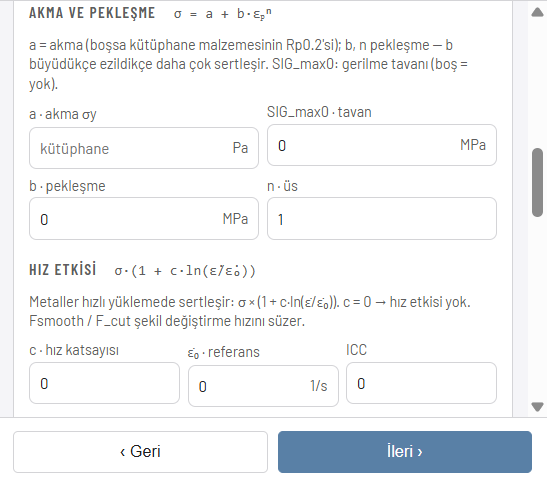
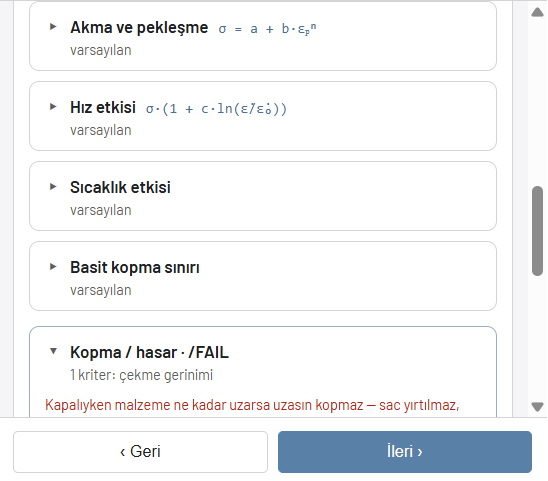
style(ui): crash malzeme davranışı/kopma bölümleri aç-kapa (kapalıyken değişen alan özeti); açıklamalar kırmızı, başlıklar kalın, Radioss/LS-DYNA karşılıkları mavi (tema token'ları --hint-red, --ref-blue, koyu tema dahil); Belgeler görselleri güncellendi

diff --git a/frontend/src/components/CrashMaterialCard.tsx b/frontend/src/components/CrashMaterialCard.tsx
@@ -1,4 +1,4 @@
-import { Fragment } from "react";
+import { Fragment, useState, type ReactNode } from "react";
 import type { CrashModelPayload } from "../api/crash";
 import ButtonGroup from "./ButtonGroup";
 import { KwRef } from "./Kw";
@@ -219,6 +219,39 @@ const LAW_HINT: Record<CrashLaw, string> = {
     "Tablolu eğri: ölçülmüş gerilme–plastik gerinim eğrilerini (farklı hızlarda) doğrudan kullanır. Elinde test eğrisi varsa.",
 };
 
+/** Aç / kapa bölüm (kullanıcı 2026-10-08: yer kaplamasın). Kapalıyken
+ * değiştirilen alanlar başlıkta özetlenir. İçerik DOM'da kalır (gizli). */
+function Fold({
+  title,
+  formula,
+  summary,
+  defaultOpen = false,
+  children,
+}: {
+  title: string;
+  formula?: string;
+  summary: string;
+  defaultOpen?: boolean;
+  children: ReactNode;
+}) {
+  const [open, setOpen] = useState(defaultOpen);
+  return (
+    <div className={open ? "crash-fold open" : "crash-fold"}>
+      <button type="button" className="crash-fold-head" aria-expanded={open} onClick={() => setOpen((v) => !v)}>
+        <span className="crash-fold-chev" aria-hidden="true">
+          {open ? "▾" : "▸"}
+        </span>
+        <strong>{title}</strong>
+        {formula && <span className="crash-formula">{formula}</span>}
+        <span className="crash-fold-summary">{summary}</span>
+      </button>
+      <div className="crash-fold-body" hidden={!open}>
+        {children}
+      </div>
+    </div>
+  );
+}
+
 export default function CrashMaterialCard({
   value,
   onChange,
@@ -231,6 +264,12 @@ export default function CrashMaterialCard({
   testId?: string;
 }) {
   const set = (patch: Partial<MatCardState>) => onChange({ ...value, ...patch });
+  /** Varsayılandan farklı alanlar: "c 0.014 · ε̇₀ 1"; hiçbiri yoksa "varsayılan". */
+  const changed = (pairs: [ScalarKey, string][]) => {
+    const d = defaultMatCard();
+    const out = pairs.filter(([k]) => value[k].trim() !== "" && value[k] !== d[k]).map(([k, l]) => `${l} ${value[k]}`);
+    return out.length ? out.join(" · ") : "varsayılan";
+  };
   const field = (key: ScalarKey, label: string) => (
     <label className="mesh-field">
       <span>{label}</span>
@@ -283,7 +322,12 @@ export default function CrashMaterialCard({
 
       {law === "plastic" && (
         <div className="crash-law-sections">
-          <p className="crash-expert-title">Akma ve pekleşme <span className="crash-formula">σ = a + b·εₚⁿ</span></p>
+          <Fold
+            title="Akma ve pekleşme"
+            formula="σ = a + b·εₚⁿ"
+            summary={changed([["sigmaY", "a"], ["hardenB", "b"], ["hardenN", "n"], ["sigMax0", "SIG_max0"]])}
+            defaultOpen
+          >
           <p className="crash-behavior-hint">
             a = akma (boşsa kütüphane malzemesinin Rp0.2'si); b, n pekleşme — b büyüdükçe ezildikçe daha çok
             sertleşir. SIG_max0: gerilme tavanı (boş = yok).
@@ -294,8 +338,13 @@ export default function CrashMaterialCard({
             {xf("hardenB", "LAW2 b (MPa)", "b · pekleşme", "MPa")}
             {xf("hardenN", "LAW2 n", "n · üs")}
           </div>
+          </Fold>
 
-          <p className="crash-expert-title">Hız etkisi <span className="crash-formula">σ·(1 + c·ln(ε̇/ε̇₀))</span></p>
+          <Fold
+            title="Hız etkisi"
+            formula="σ·(1 + c·ln(ε̇/ε̇₀))"
+            summary={changed([["jcC", "c"], ["jcEps0", "ε̇₀"], ["jcIcc", "ICC"], ["jcFsmooth", "Fsmooth"], ["jcFcut", "F_cut"], ["jcChard", "Chard"]])}
+          >
           <p className="crash-behavior-hint">
             Metaller hızlı yüklemede sertleşir: σ × (1 + c·ln(ε̇/ε̇₀)). c = 0 → hız etkisi yok. Fsmooth / F_cut
             şekil değiştirme hızını süzer.
@@ -308,8 +357,9 @@ export default function CrashMaterialCard({
             {xf("jcFcut", "F_cut (Hz)", "F_cut", "Hz")}
             {xf("jcChard", "Chard", "Chard")}
           </div>
+          </Fold>
 
-          <p className="crash-expert-title">Sıcaklık etkisi</p>
+          <Fold title="Sıcaklık etkisi" summary={changed([["jcM", "m"], ["jcTmelt", "T_melt"], ["jcTr", "T_r"], ["jcRhoCp", "ρCp"]])}>
           <p className="crash-behavior-hint">
             Plastik iş ısıya döner, malzeme yumuşar: m üssü, erime ve referans sıcaklığı, ρ·Cp. Boş = sıcaklık
             etkisi yok.
@@ -320,14 +370,16 @@ export default function CrashMaterialCard({
             {xf("jcTr", "T_r (K)", "T_r · referans", "K")}
             {xf("jcRhoCp", "ρCp (J/m³K)", "ρ·Cp", "J/m³K")}
           </div>
+          </Fold>
 
-          <p className="crash-expert-title">Basit kopma sınırı</p>
+          <Fold title="Basit kopma sınırı" summary={changed([["epsPMax", "EPS_p_max"]])}>
           <p className="crash-behavior-hint">
             Bu plastik gerinime ulaşan eleman silinir (boş = kapalı). Daha ayrıntılı kopma için aşağıdaki /FAIL kartları.
           </p>
           <div className="crash-expert-grid cols-2">
             {xf("epsPMax", "EPS_p_max", "EPS_p_max · kopma gerinimi")}
           </div>
+          </Fold>
         </div>
       )}
 
@@ -412,9 +464,11 @@ export default function CrashMaterialCard({
       )}
 
       <div className="crash-law-sections">
-        <p className="crash-expert-title">
-          Kopma / hasar · /FAIL{failCount > 0 ? ` · ${failCount} kriter` : " · kapalı"}
-        </p>
+        <Fold
+          title="Kopma / hasar · /FAIL"
+          summary={failCount > 0 ? `${failCount} kriter: ${[j && "Johnson–Cook", t && "çekme gerinimi"].filter(Boolean).join(" + ")}` : "kapalı"}
+          defaultOpen={failCount > 0}
+        >
         <p className="crash-behavior-hint" data-testid="crash-fail-intro">
           Kapalıyken malzeme ne kadar uzarsa uzasın kopmaz — sac yırtılmaz, mermi delmez; yalnız ezilir ve
           bükülür. Açıkken kriteri sağlayan eleman silinir; silinen eleman sayısı sonuçlarda yazar. Tipik:
@@ -480,6 +534,7 @@ export default function CrashMaterialCard({
           )}
         </div>
         <p className="material-assign-hint">S_Flag: 0, 1, 11, 21 · Ifail: 0, 1, 2 (Radioss bayrakları; boş = varsayılan).</p>
+        </Fold>
       </div>
     </div>
   );

diff --git a/frontend/src/index.css b/frontend/src/index.css
@@ -8331,3 +8331,85 @@ p {
   border: none;
   border-radius: 6px;
 }
+
+/* Aç/kapa bölümler (crash malzeme davranışı / kopma) */
+.crash-fold {
+  border: 1px solid var(--border);
+  border-radius: 8px;
+  background: var(--surface);
+}
+
+.crash-fold.open {
+  border-color: color-mix(in srgb, var(--accent) 45%, var(--border));
+}
+
+.crash-fold-head {
+  display: flex;
+  flex-wrap: wrap;
+  align-items: baseline;
+  gap: 2px 8px;
+  width: 100%;
+  min-height: 40px;
+  padding: 9px 12px;
+  font: inherit;
+  text-align: left;
+  color: var(--ink);
+  background: none;
+  border: none;
+  cursor: pointer;
+}
+
+.crash-fold-head strong {
+  font-size: 13.5px;
+  font-weight: 700;
+}
+
+.crash-fold-head .crash-formula {
+  margin-left: 0;
+  color: var(--ref-blue);
+}
+
+.crash-fold-chev {
+  width: 12px;
+  color: var(--muted);
+}
+
+.crash-fold-summary {
+  flex-basis: 100%;
+  padding-left: 20px;
+  font-size: 11.5px;
+  color: var(--muted);
+}
+
+.crash-fold-body {
+  display: flex;
+  flex-direction: column;
+  gap: 8px;
+  padding: 0 12px 12px;
+}
+
+.crash-fold-body[hidden] {
+  display: none;
+}
+
+/* Kullanıcı 2026-10-08: açıklamalar kırmızı, başlıklar kalın, karşılıklar mavi */
+.crash-mat-step .crash-behavior-hint,
+.crash-mat-step .material-assign-hint {
+  color: var(--hint-red);
+}
+
+.crash-expert-title {
+  font-weight: 700;
+}
+
+.kw-dyna,
+.crash-fail-head code,
+.crash-mat-props code,
+.crash-expert-title .kw code,
+.docs-dyna {
+  color: var(--ref-blue);
+}
+
+.crash-mat-step .crash-fail-text span {
+  color: var(--hint-red);
+}

diff --git a/frontend/src/theme.css b/frontend/src/theme.css
@@ -42,6 +42,8 @@
   --muted: #5d5d60;           /* eski: #6e757c — Workbench v4 --color-neutral-700 */
   --disabled: #b7b7ba;        /* eski: #b3b9be — Workbench v4 --color-neutral-400 */
   --accent: #5980a6;          /* eski: #00b4c8 (turkuaz) — Workbench v4 --color-accent */
+  --hint-red: #b42318;        /* açıklama metni (crash malzeme) */
+  --ref-blue: #4a7099;        /* Radioss / LS-DYNA karşılıkları — buton mavisine yakın, okunur */
   --accent-hover: #416180;    /* eski: #00a0b2 — Workbench v4 --color-accent-700 */
   --accent-soft: #eef6ff;     /* eski: #e2f6f8 — Workbench v4 --color-accent-100 */
   --on-accent: #ffffff;
@@ -83,6 +85,8 @@
   --muted: #8a8d91;
   --disabled: #55585d;
   --accent: #00d9e8;
+  --hint-red: #f87171;
+  --ref-blue: #4ee7f2;
   --accent-hover: #4ee7f2;
   --accent-soft: rgba(0, 217, 232, 0.14);
   --on-accent: #04181b;
@@ -123,6 +127,8 @@
   --muted: #5d5d60;
   --disabled: #b7b7ba;
   --accent: #5980a6;
+  --hint-red: #b42318;        /* açıklama metni (crash malzeme) */
+  --ref-blue: #4a7099;        /* Radioss / LS-DYNA karşılıkları — buton mavisine yakın, okunur */
   --accent-hover: #416180;
   --accent-soft: #eef6ff;
   --on-accent: #ffffff;

diff --git a/frontend/src/docs/crashDoc.ts b/frontend/src/docs/crashDoc.ts
@@ -178,7 +178,7 @@ export const CRASH_DOC: DocSection[] = [
       { name: "Parça başına model", what: "Çok parçalı modelde her parçaya ayrı kart (ör. küre LAW1, plaka LAW2)." },
     ],
     gallery: [
-      { src: IMG("08-malzeme.png"), caption: "3 Davranış ve kopma · LAW2: akma ve pekleşme (σ = a + b·εₚⁿ), hız etkisi (Johnson–Cook), sıcaklık, basit kopma sınırı — birimli alanlar." },
+      { src: IMG("08-malzeme.png"), caption: "3 Davranış ve kopma · LAW2: aç/kapa bölümler (Akma ve pekleşme, Hız etkisi, Sıcaklık, Basit kopma, Kopma / hasar); kapalıyken değiştirilen alanlar başlıkta özetlenir." },
       { src: IMG("09-fail.png"), caption: "Kopma / hasar: Johnson–Cook ve çekme gerinimi kartları; açık kart kırmızı çerçeveli, alanları altında." },
     ],
   },
